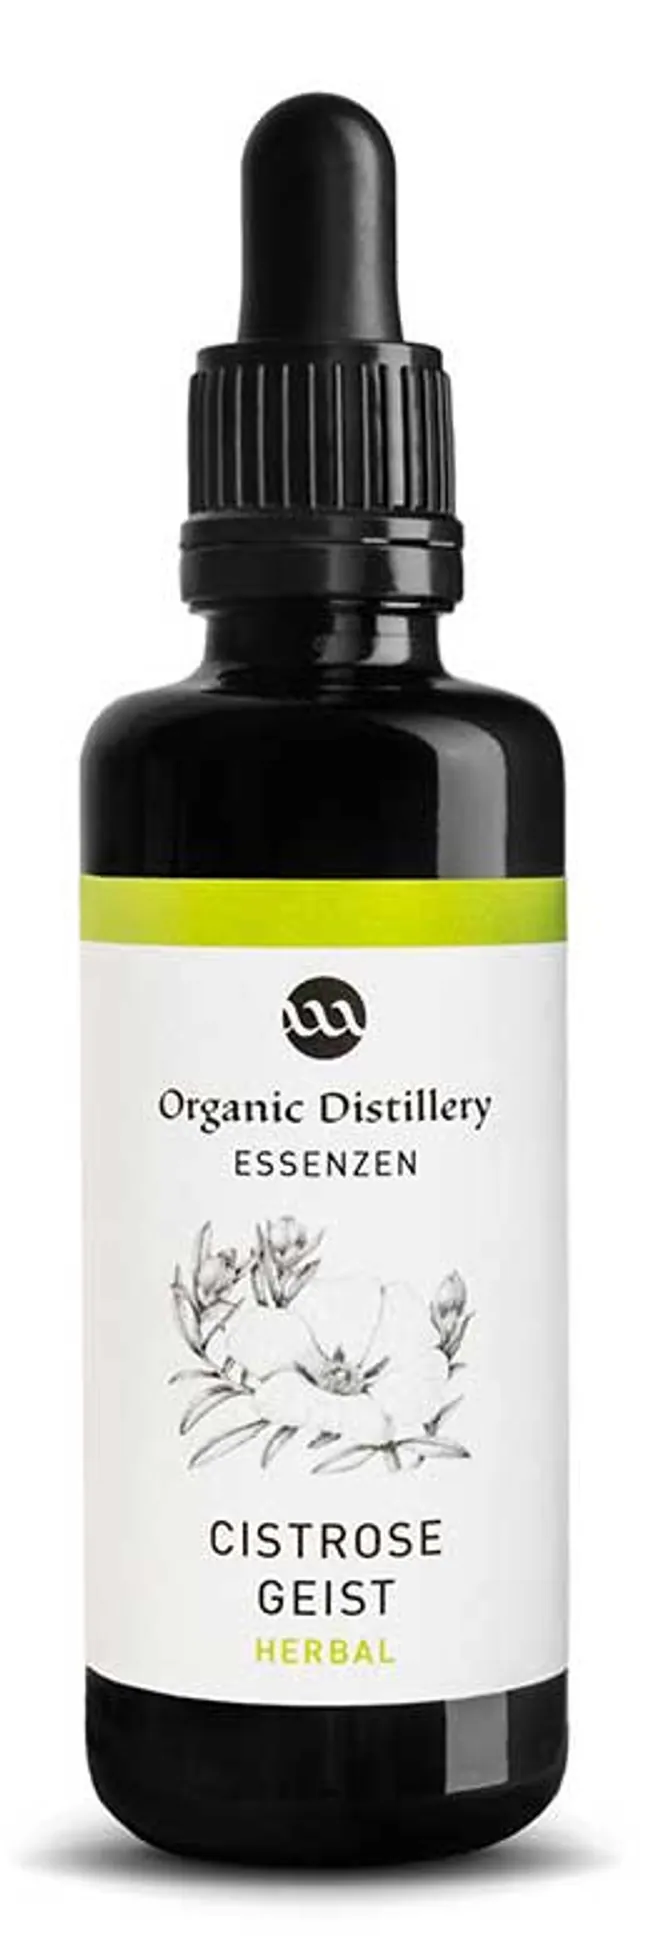
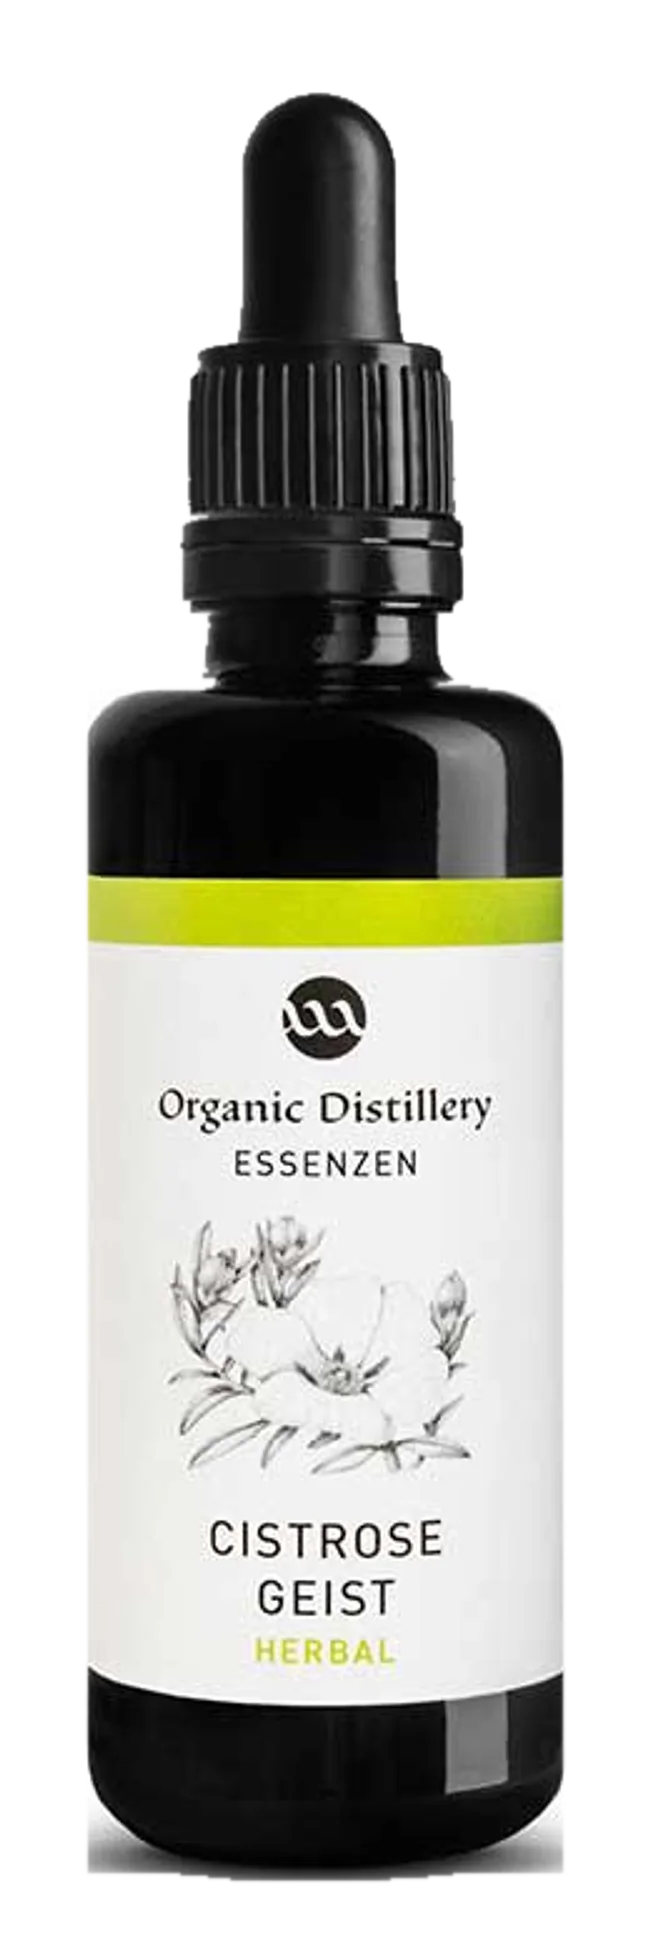
feat: inline essence recipes, highlight wheel slices and cut out bottles

diff --git a/scripts/optimize-images.ts b/scripts/optimize-images.ts
@@ -10,7 +10,17 @@ const CUTOUTS = [
 	'media/2017/11/Ginn_200ml.jpg',
 	'media/2017/11/Ginnie_200ml.jpg',
 	'media/2017/11/Ginn_500ml.jpg',
-	'media/2017/11/Ginnie_500ml.jpg'
+	'media/2017/11/Ginnie_500ml.jpg',
+	'media/2017/10/organicdistillery-minze_front_FIN_schatten.jpg',
+	'media/2017/10/organicdistillery-eucalyptus_front_FIN_schatten.jpg',
+	'media/2017/10/organicdistillery-rosen-monarde_front_FIN_schatten.jpg',
+	'media/2017/10/organicdistillery-koriander_front_FIN_schatten.jpg',
+	'media/2017/10/organicdistillery-silber-wermut_front_FIN_schatten.jpg',
+	'media/2017/10/organicdistillery-cistrose_front_FIN_schatten.jpg',
+	'media/2017/10/organicdistillery-mandarine_front_FIN_schatten.jpg',
+	'media/2017/11/organicdistillery-zitronen-verbena_front_FIN_schatten.jpg',
+	'media/2017/10/organicdistillery-brombeer_front_FIN_schatten.jpg',
+	'media/2017/10/organicdistillery-vogelbeere_front_FIN_schatten.jpg'
 ];
 
 const DRAWING_CUTOUTS = [
@@ -68,36 +78,23 @@ async function cutout(src: string, dest: string): Promise<void> {
 	).filter((y) => y >= 0);
 	const firstWide = wide[0] ?? 0;
 	const lastWide = wide[wide.length - 1] ?? h - 1;
-
-	const nearestWide = (y: number) => {
-		const below = wide.find((row) => row >= y);
-		let above = -1;
-		for (const row of wide) {
-			if (row > y) break;
-			above = row;
-		}
-		return { above, below: below ?? -1 };
+	const median = (values: number[]) => {
+		const sorted = [...values].sort((a, b) => a - b);
+		return sorted[Math.floor(sorted.length / 2)] ?? 0;
 	};
+	// Bottle glass is roughly straight; use its median edges through the white label.
+	const bodyLeft = median(wide.map((y) => leftAt(y)));
+	const bodyRight = median(wide.map((y) => rightAt(y)));
 
 	for (let y = 0; y < h; y++) {
 		let left = leftAt(y);
 		let right = rightAt(y);
-		if (right - left < maxWidth * 0.6 && y >= firstWide && y <= lastWide) {
-			const { above, below } = nearestWide(y);
-			if (above >= 0 && below >= 0 && above !== below) {
-				const t = (y - above) / (below - above);
-				left = Math.round(leftAt(above) + (leftAt(below) - leftAt(above)) * t);
-				right = Math.round(rightAt(above) + (rightAt(below) - rightAt(above)) * t);
-			} else if (y <= firstWide) {
-				left = leftAt(firstWide);
-				right = rightAt(firstWide);
-			} else if (y >= lastWide) {
-				left = leftAt(lastWide);
-				right = rightAt(lastWide);
-			}
+		if (y >= firstWide && y <= lastWide) {
+			left = bodyLeft;
+			right = bodyRight;
 		}
 		const hasDark = rightAt(y) > leftAt(y);
-		const inBottle = hasDark || y >= firstWide - 40;
+		const inBottle = hasDark || (y >= firstWide - 40 && y <= lastWide + 20);
 		for (let x = 0; x < w; x++) {
 			const i = y * w + x;
 			if (!inBottle || left >= right || x < left || x > right) {

diff --git a/scripts/extract-recipes.ts b/scripts/extract-recipes.ts
@@ -1,0 +1,37 @@
+/** Reads the mirrored recipe PDFs into site.json so their content can be shown inline. */
+import { PDFParse } from 'pdf-parse';
+
+const SITE_JSON = 'src/lib/content/site.json';
+
+const clean = (text: string): string =>
+	text
+		.replace(/(\w)-\n(\w)/g, '$1$2')
+		.replace(/--\s*\d+\s*of\s*\d+\s*--/g, '')
+		.replace(/www\.organic-distillery\.com[^\n]*/g, '')
+		.replace(/Weitere Inspirationen, Informationen und Bestellungen:/g, '')
+		.replace(/[ \t]+/g, ' ')
+		.replace(/\n+/g, ' ')
+		.replace(/\s{2,}/g, ' ')
+		.trim();
+
+const site = await Bun.file(SITE_JSON).json();
+let count = 0;
+
+for (const page of site.pages) {
+	const recipe = page.recipe;
+	if (!recipe?.href) continue;
+	const path = `static${decodeURIComponent(recipe.href)}`;
+	if (!(await Bun.file(path).exists())) {
+		console.error('missing', path);
+		continue;
+	}
+	const parser = new PDFParse(new Uint8Array(await Bun.file(path).arrayBuffer()));
+	const { text } = await parser.getText();
+	await parser.destroy();
+	recipe.text = clean(text);
+	count++;
+	console.log(`extracted ${page.path} (${recipe.text.length} chars)`);
+}
+
+await Bun.write(SITE_JSON, JSON.stringify(site, null, 2) + '\n');
+console.log(`\nExtracted ${count} recipes.`);

diff --git a/src/lib/ui/EssenceRecipe.svelte b/src/lib/ui/EssenceRecipe.svelte
@@ -1,0 +1,35 @@
+<script lang="ts">
+	import { trackEvent } from '#lib/features/telemetry.js';
+	import type { RecipeLink } from '#lib/mirror/embellish.js';
+
+	let { recipe, title }: { recipe: RecipeLink; title: string } = $props();
+
+	let open = $state(false);
+
+	function toggle() {
+		open = !open;
+		if (open) trackEvent('recipe_open', { essence: title });
+	}
+</script>
+
+<section class="essence-recipe" aria-labelledby="essence-recipe-title">
+	<button type="button" class="essence-recipe__toggle" onclick={toggle} aria-expanded={open}>
+		<span class="essence-recipe__icon" aria-hidden="true">◇</span>
+		<span id="essence-recipe-title">Rezept &amp; Inspiration: {title}</span>
+		<span class="essence-recipe__arrow" aria-hidden="true">{open ? '−' : '+'}</span>
+	</button>
+
+	<div class="essence-recipe__body" hidden={!open}>
+		{#if recipe.text}
+			<p>{recipe.text}</p>
+		{/if}
+		<a
+			class="o-button essence-recipe__download"
+			href={recipe.href}
+			download
+			onclick={() => trackEvent('recipe_download', { essence: title, file: recipe.href })}
+		>
+			PDF herunterladen ↓
+		</a>
+	</div>
+</section>

diff --git a/tests/page.spec.ts b/tests/page.spec.ts
@@ -1,6 +1,7 @@
 import { render } from 'svelte/server';
 import { describe, expect, it } from 'vitest';
 import ContactForm from '../src/lib/ui/ContactForm.svelte';
+import EssenceRecipe from '../src/lib/ui/EssenceRecipe.svelte';
 import FlavorWheel from '../src/lib/ui/FlavorWheel.svelte';
 import GinAroma from '../src/lib/ui/GinAroma.svelte';
 import GinProcess from '../src/lib/ui/GinProcess.svelte';
@@ -44,6 +45,18 @@ describe('MirroredPage', () => {
 		expect(body).toContain('Aroma infundieren');
 		expect(body).toContain('Schonende Destillation');
 		expect(body.match(/gin-process__step/g)).toHaveLength(5);
+	});
+
+	it('renders inline recipe content with a PDF download', () => {
+		const { body } = render(EssenceRecipe, {
+			props: {
+				title: 'Eucalyptus Geist',
+				recipe: { href: '/media/recipe.pdf', label: 'Rezeptkarte', text: 'Lamm und Kräuter.' }
+			}
+		});
+		expect(body).toContain('Rezept');
+		expect(body).toContain('Eucalyptus Geist');
+		expect(body).toContain('/media/recipe.pdf');
 	});
 
 	it('renders the colour-coded flavour wheel', () => {

diff --git a/src/styles/recipe.css b/src/styles/recipe.css
@@ -1,0 +1,48 @@
+.essence-recipe {
+	max-width: 46rem;
+	margin: 2.5rem auto;
+	background: var(--panel-bg);
+	border: 1px solid var(--hairline);
+}
+
+.essence-recipe__toggle {
+	display: flex;
+	align-items: center;
+	gap: 0.75rem;
+	width: 100%;
+	padding: 1.1rem 1.25rem;
+	text-align: left;
+	background: none;
+	border: 0;
+	color: var(--text);
+	font-family: 'Ductus W03 Medium', Georgia, serif;
+	font-size: 1.15rem;
+	cursor: pointer;
+}
+
+.essence-recipe__toggle:hover {
+	color: var(--mystic-gold);
+}
+
+.essence-recipe__icon {
+	color: var(--mystic-gold);
+}
+
+.essence-recipe__arrow {
+	margin-left: auto;
+	color: var(--mystic-gold);
+	font-size: 1.3rem;
+}
+
+.essence-recipe__body {
+	padding: 0 1.25rem 1.5rem;
+}
+
+.essence-recipe__body p {
+	line-height: 1.75;
+	color: var(--muted);
+}
+
+.essence-recipe__download {
+	margin-top: 0.5rem;
+}

diff --git a/src/lib/ui/MirroredPage.svelte b/src/lib/ui/MirroredPage.svelte
@@ -1,5 +1,6 @@
 <script lang="ts">
 	import ContactForm from './ContactForm.svelte';
+	import EssenceRecipe from './EssenceRecipe.svelte';
 	import FlavorWheel from './FlavorWheel.svelte';
 	import GinAroma from './GinAroma.svelte';
 	import GinProcess from './GinProcess.svelte';
@@ -23,7 +24,7 @@
 {@html page.html}
 
 {#if page.recipe}
-	<RecipeCard recipe={page.recipe} title={essenceName(page.title)} />
+	<EssenceRecipe recipe={page.recipe} title={essenceName(page.title)} />
 {/if}
 
 {#if path === '/kontakt'}

diff --git a/src/lib/mirror/site.ts b/src/lib/mirror/site.ts
@@ -22,6 +22,9 @@ export function parseSite(value: unknown): MirroredSite {
 			if (!isRecord(recipe) || !isString(recipe.href) || !isString(recipe.label)) {
 				throw new TypeError(`Page ${index} has an invalid recipe`);
 			}
+			if ('text' in recipe && !isString(recipe.text)) {
+				throw new TypeError(`Page ${index} has an invalid recipe text`);
+			}
 		}
 	}
 	return value as unknown as MirroredSite;

diff --git a/src/styles/flavor-wheel.css b/src/styles/flavor-wheel.css
@@ -174,6 +174,16 @@
 	color: var(--muted);
 }
 
+.flavor-wheel__legend-item--active {
+	padding-left: 0.75rem;
+	border-left: 3px solid var(--mystic-gold);
+	background: color-mix(in srgb, var(--mystic-gold) 8%, transparent);
+}
+
+.flavor-wheel__legend-item--active a {
+	color: var(--mystic-gold);
+}
+
 @media (max-width: 860px) {
 	.flavor-wheel__layout {
 		grid-template-columns: 1fr;

diff --git a/src/lib/ui/FlavorWheel.svelte b/src/lib/ui/FlavorWheel.svelte
@@ -94,7 +94,7 @@
 					<h3><span style={`background:${family.color}`}></span>{family.name}</h3>
 					<ul>
 						{#each family.essences as essence (essence.path)}
-							<li>
+							<li class:flavor-wheel__legend-item--active={active === essence.path}>
 								<a href={essence.path}>{essence.name}</a>
 								<span>{essence.pairings.join(' · ')}</span>
 							</li>

diff --git a/src/lib/mirror/embellish.ts b/src/lib/mirror/embellish.ts
@@ -36,6 +36,7 @@ export function insertHerbBackdrop(html: string): string {
 export interface RecipeLink {
 	href: string;
 	label: string;
+	text?: string;
 }
 
 const drawingBlock =

diff --git a/src/styles/app.css b/src/styles/app.css
@@ -5,6 +5,7 @@
 @import './process.css';
 @import './aroma.css';
 @import './flavor-wheel.css';
+@import './recipe.css';
 
 html {
 	scrollbar-gutter: stable;

diff --git a/README.md b/README.md
@@ -26,7 +26,8 @@ Root-relative links mean the site works on the apex and any subdomain, for examp
 | `bun run test`                    | Vitest unit tests                                                              |
 | `bun run ci`                      | All of the above, in order                                                     |
 | `bun run mirror`                  | Re-crawl the live site, download assets, regenerate routes and optimise images |
-| `bun run images`                  | Re-run WebP conversion and gin-bottle cutouts                                  |
+| `bun run images`                  | Re-run WebP conversion, bottle and herb cutouts                                |
+| `bun run recipes`                 | Re-extract recipe text from the mirrored PDFs                                  |
 | `bun run icons`                   | Regenerate the favicon and PWA icons from `static/icons/icon.svg`              |
 | `bun run i18n:compile`            | Compile Paraglide messages (`de`, `en`)                                        |
 
@@ -55,7 +56,7 @@ tests/                   unit and content-integrity tests
 ## Features
 
 - **Mirror**: every page crawled from the homepage, with real German copy, original theme CSS/JS, fonts, images and all 15 recipe PDFs. Internal URLs are rewritten to local paths.
-- **Imagery**: all mirrored images are WebP; the gin bottles have transparent cutouts, botanical drawings appear as framed specimen plates and the essences page includes a botanical gallery. Each essence detail page places a background-removed version of its herb behind the bottle, with a masked golden shimmer running down it. The essences pages show a colour-coded SVG aroma wheel with the five flavour families, ten essences and their pairings.
+- **Imagery**: all mirrored images are WebP; the gin bottles have transparent cutouts, botanical drawings appear as framed specimen plates and the essences page includes a botanical gallery. Each essence detail page places a background-removed version of its herb behind the bottle, with a masked golden shimmer running down it. The bottles themselves are cut out from their white studio backgrounds, and each recipe PDF's text is embedded inline behind an expandable panel. The essences pages show a colour-coded SVG aroma wheel with the five flavour families, ten essences and their pairings.
 - **Shop**: order popup, recipe download cards and a recipe library. `SHOP_MOCK_MODE=true` keeps orders local and shows a mock receipt via a native `<dialog>`.
 - **Forms**: validated contact form and newsletter registration that prepare prefilled emails (no backend required). The age gate persists confirmation in `localStorage`.
 - **PWA**: manifest, icons, minimal service worker and an install hint using `beforeinstallprompt`.
